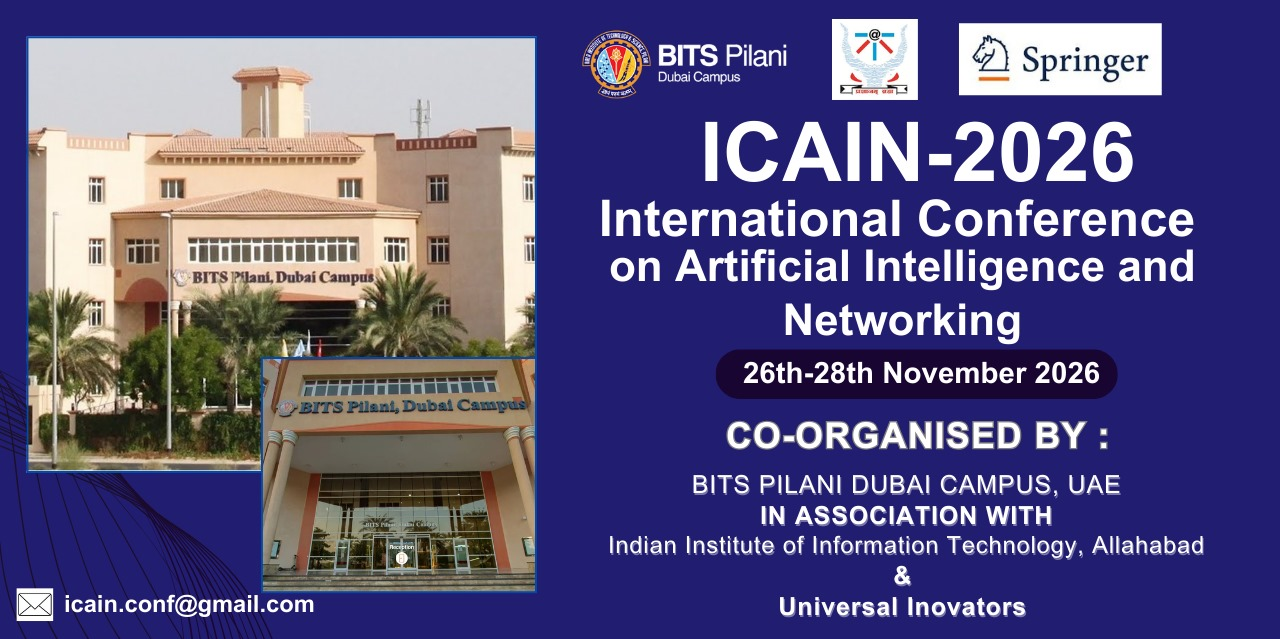
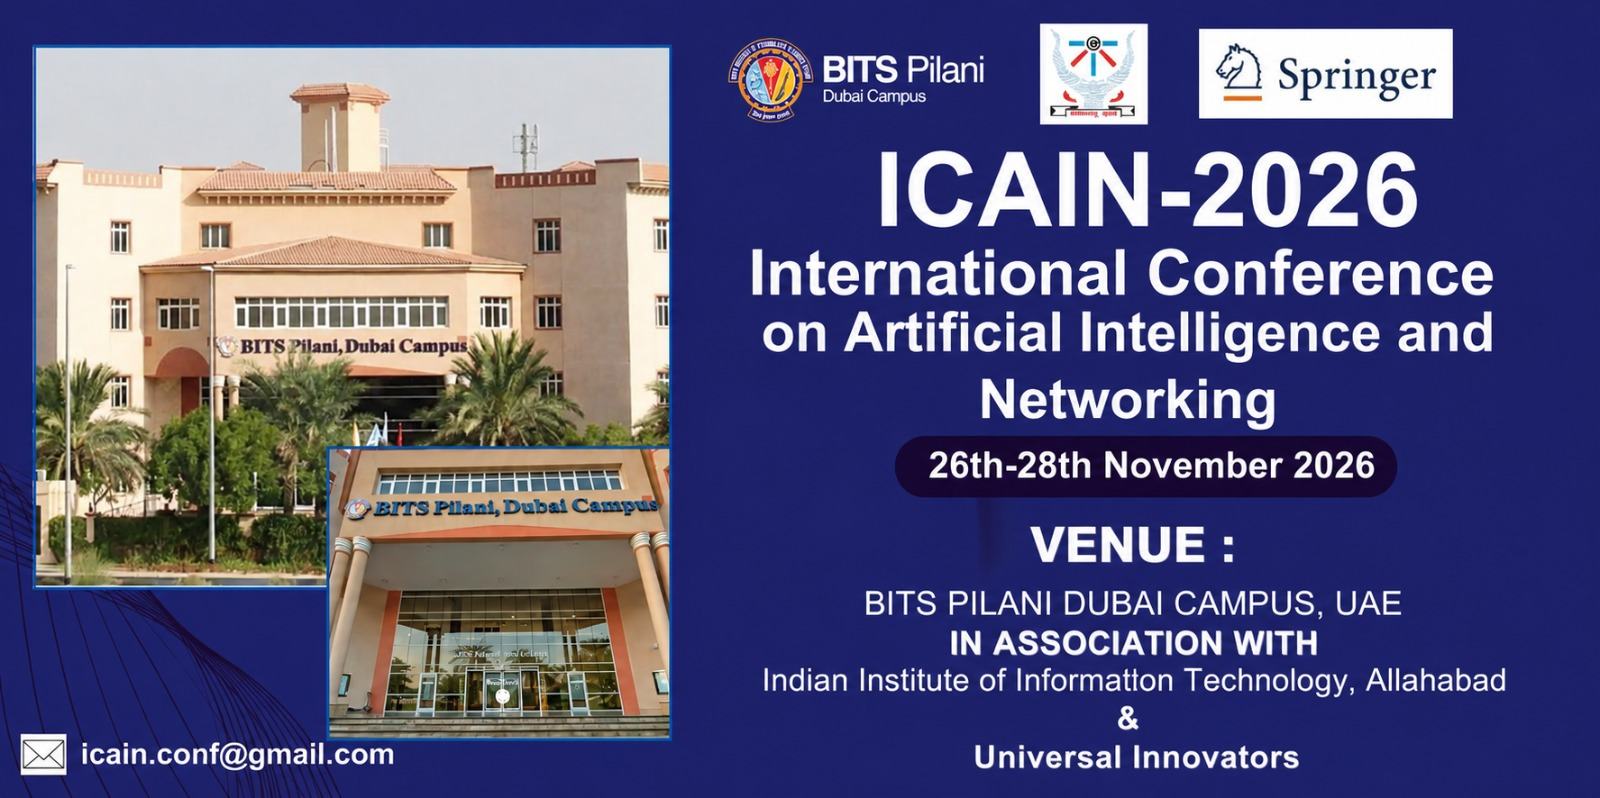
ss

diff --git a/src/Components/RegistrationSection/RegistrationFee.jsx b/src/Components/RegistrationSection/RegistrationFee.jsx
@@ -11,8 +11,8 @@ function RegFee() {
           {/* table head  */}
           <div className="reFeetd">
             <h2>Category</h2>
-            <h2>Early Registration (before 30th September 2026)</h2>
-            <h2>Late Registration (after 30th September 2026)</h2>
+            <h2>Early Registration (before 05th October 2026)</h2>
+            <h2>Late Registration (after 05th October 2026)</h2>
           </div>
 
          
@@ -45,8 +45,8 @@ function RegFee() {
           {/* table head  */}
           <div className="reFeetd">
             <h2>Category</h2>
-            <h2>Early Registration (before 30th September 2026)</h2>
-            <h2>Late Registration (after 30th September 2026)</h2>
+            <h2>Early Registration (before 05th October 2026)</h2>
+            <h2>Late Registration (after 05th October 2026)</h2>
           </div>
 
          
@@ -79,8 +79,8 @@ function RegFee() {
           {/* table head  */}
           <div className="reFeetd">
             <h2>Category</h2>
-            <h2>Early Registration (before 30th September 2026)</h2>
-            <h2>Late Registration (after 30th September 2026)</h2>
+            <h2>Early Registration (before 05th October 2026)</h2>
+            <h2>Late Registration (after 05th October 2026)</h2>
           </div>
 
          

diff --git a/src/Components/impDates/impDtext.jsx b/src/Components/impDates/impDtext.jsx
@@ -6,11 +6,11 @@ import "./ImpDtext.css";
 const arr = [
   {
     h4: "Deadline for manuscript submission: ",
-    p: "September 30th, 2026",
+    p: "October 10th, 2026",
   },
   {
     h4: "Notification of first review:",
-    p: "October 10th, 2026",
+    p: "October 15th, 2026",
   },
   {
     h4: "Submission of revised manuscript:",

diff --git a/src/Components/Header/header.jsx b/src/Components/Header/header.jsx
@@ -50,7 +50,7 @@ function HeaderMain() {
         </div>
         <div className="htop2">
           <p className="hhead">
-            ORGANISED BY :{" "}
+            VENUE :{" "}
             {/* <span className="hblue">
              
               </span> */}
